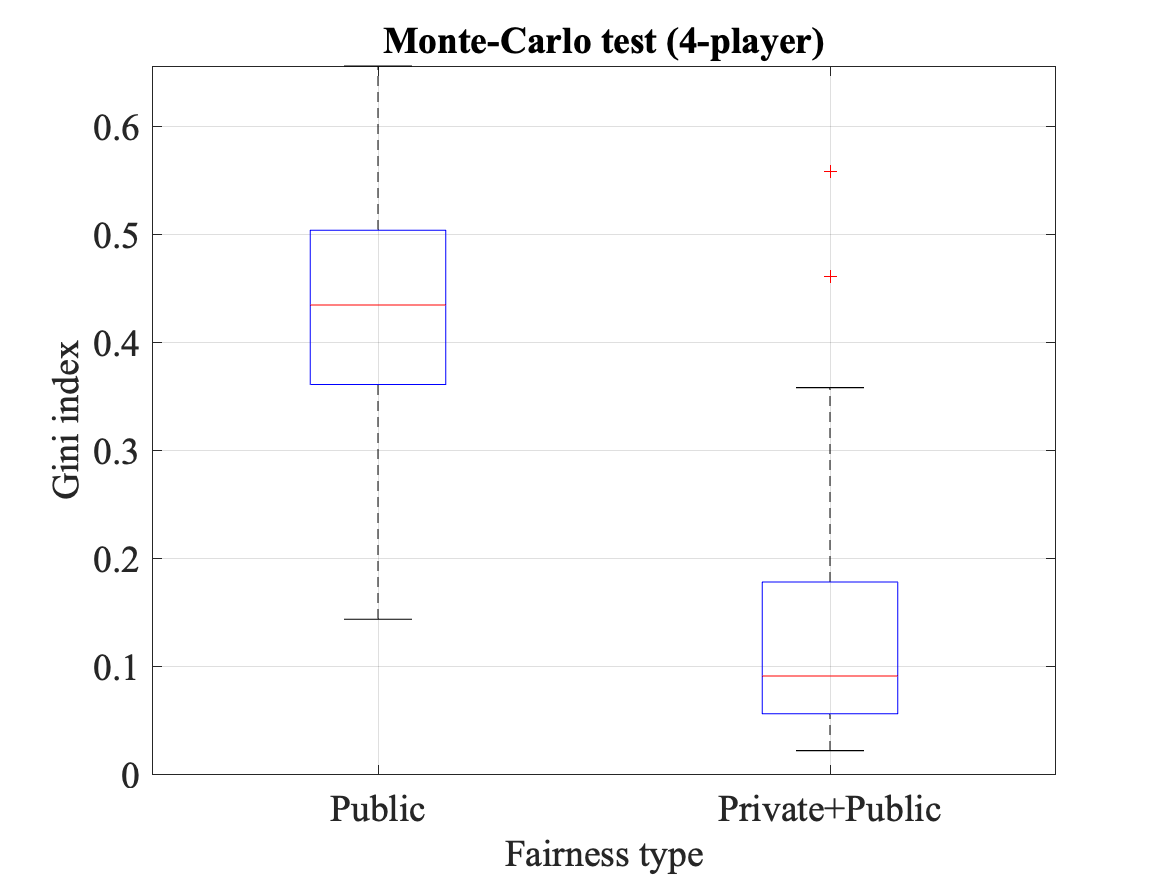
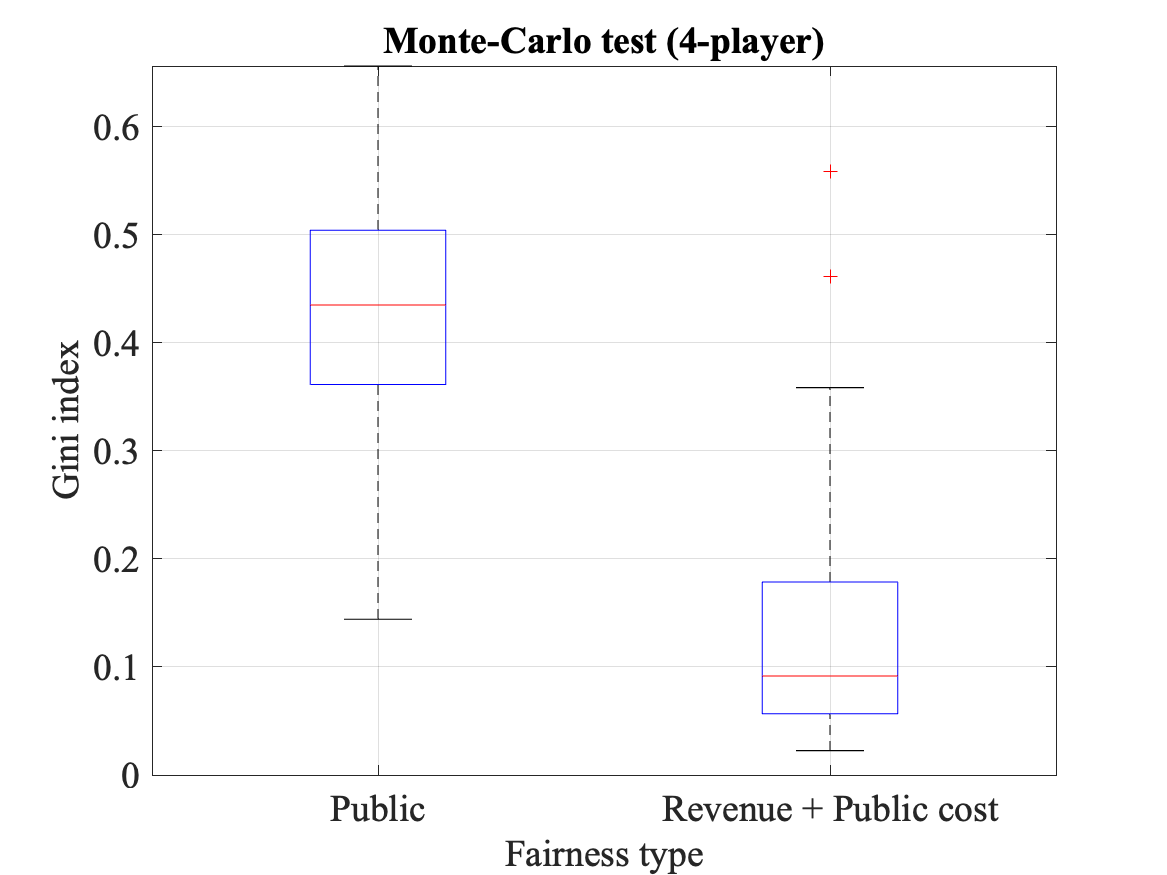
matlab update

Changed region(s): [[0.5553, 0.8949, 0.8638, 0.9566]]

diff --git a/Analysis/MC_analysis.m b/Analysis/MC_analysis.m
@@ -12,7 +12,7 @@ fair_pri = cell2mat(fair_pri);
 figure(5)
 clf
 boxplot([fair_pub;fair_pri]','Whisker',2)
-xticklabels({'Public','Private+Public'})
+xticklabels({'Public','Revenue + Public cost'})
 a = get(gca,'XTickLabel');
 set(gca,'XTickLabel',a,'FontName','Times','fontsize',18)
 grid on
